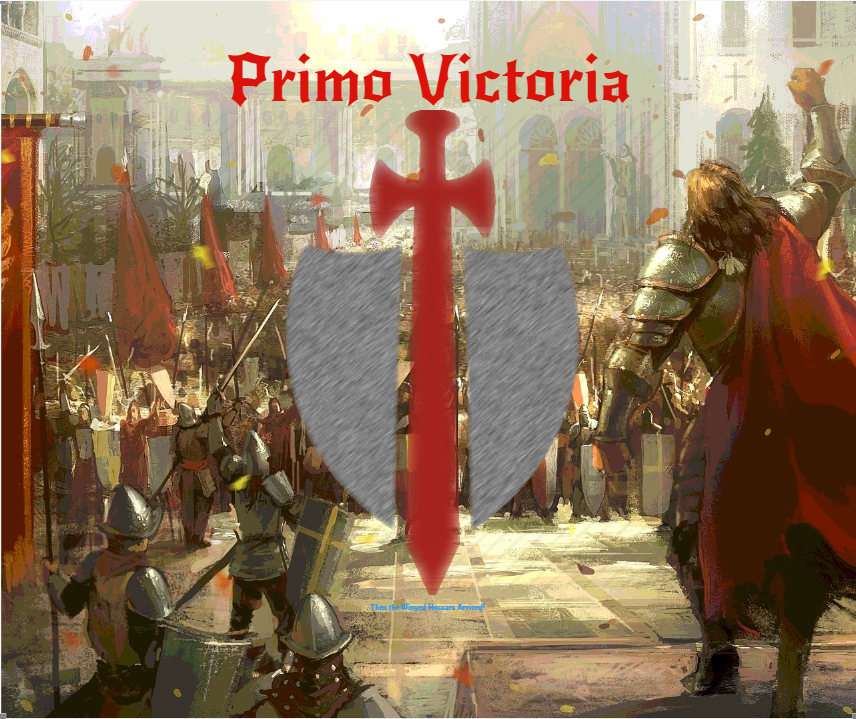
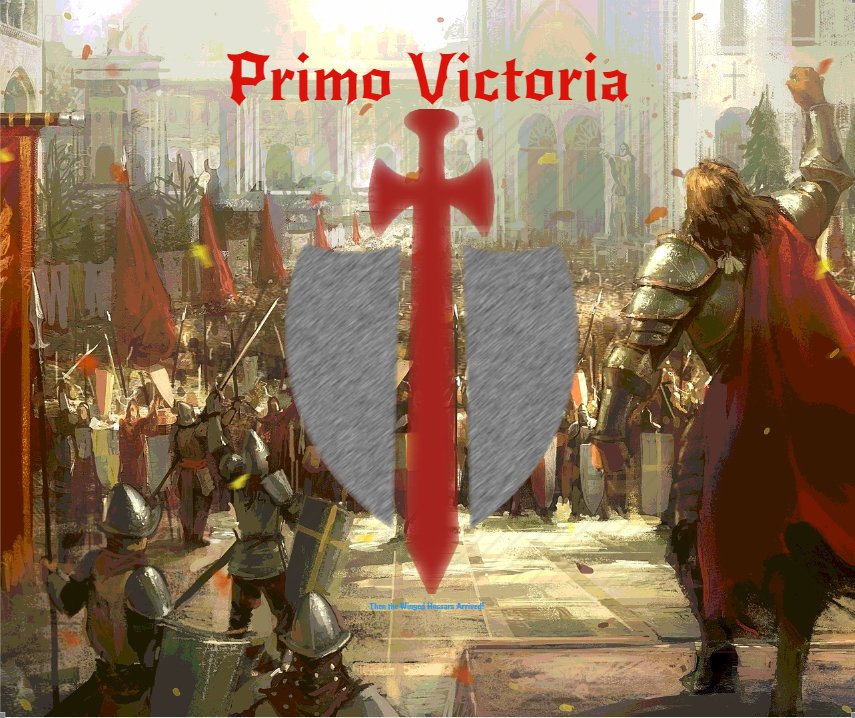
Bug Fixes
Changed background orientation; increased screen size, units can't walk off screen

diff --git a/unitManager.cpp b/unitManager.cpp
@@ -147,55 +147,71 @@ void UnitManager::selectionDown(){
 	}
 }
 bool UnitManager::unitUp(TileManager* tileManager){
-	if(!(tileManager->getTile(selectedTile.x, selectedTile.y-1)->isOccupied())){
-		if(currentSelection->moveUp()){
-			tileManager->getTile(currentSelection->getTileX(), currentSelection->getTileY()+1)->leave();
-			tileManager->getTile(currentSelection->getTileX(), currentSelection->getTileY())->occupy(currentSelection);
+	if (currentSelection->getTileY() > 0) {
+		if(!(tileManager->getTile(selectedTile.x, selectedTile.y-1)->isOccupied())){
+			if(currentSelection->moveUp()){
+				tileManager->getTile(currentSelection->getTileX(), currentSelection->getTileY()+1)->leave();
+				tileManager->getTile(currentSelection->getTileX(), currentSelection->getTileY())->occupy(currentSelection);
+				return true;
+			}
+		}
+		else if(tileManager->getTile(selectedTile.x, selectedTile.y-1)->isOccupied()){
 			return true;
 		}
 	}
-	else if(tileManager->getTile(selectedTile.x, selectedTile.y-1)->isOccupied()){
+	else if (currentSelection->getTileY() == 0)
 		return true;
-	}
 	return false;
 }
 bool UnitManager::unitDown(TileManager* tileManager){
-	if(!(tileManager->getTile(selectedTile.x, selectedTile.y+1)->isOccupied())){
-		if(currentSelection->moveDown()){
-			tileManager->getTile(currentSelection->getTileX(), currentSelection->getTileY()-1)->leave();
-			tileManager->getTile(currentSelection->getTileX(), currentSelection->getTileY())->occupy(currentSelection);
+	if (currentSelection->getTileY() < tileManager->getHeight()-1) {
+		if(!(tileManager->getTile(selectedTile.x, selectedTile.y+1)->isOccupied())){
+			if(currentSelection->moveDown()){
+				tileManager->getTile(currentSelection->getTileX(), currentSelection->getTileY()-1)->leave();
+				tileManager->getTile(currentSelection->getTileX(), currentSelection->getTileY())->occupy(currentSelection);
+				return true;
+			}
+		}
+		else if(tileManager->getTile(selectedTile.x, selectedTile.y+1)->isOccupied()){
 			return true;
 		}
 	}
-		else if(tileManager->getTile(selectedTile.x, selectedTile.y+1)->isOccupied()){
+	else if (currentSelection->getTileY() == tileManager->getHeight()-1)
 		return true;
-	}
 	return false;
 }
 bool UnitManager::unitLeft(TileManager* tileManager){
-	if(!(tileManager->getTile(selectedTile.x-1, selectedTile.y)->isOccupied())){
-		if(currentSelection->moveLeft()){
-			tileManager->getTile(currentSelection->getTileX()+1, currentSelection->getTileY())->leave();
-			tileManager->getTile(currentSelection->getTileX(), currentSelection->getTileY())->occupy(currentSelection);
+	if (currentSelection->getTileX() > 0) {
+		if(!(tileManager->getTile(selectedTile.x-1, selectedTile.y)->isOccupied())){
+			if(currentSelection->moveLeft()){
+				tileManager->getTile(currentSelection->getTileX()+1, currentSelection->getTileY())->leave();
+				tileManager->getTile(currentSelection->getTileX(), currentSelection->getTileY())->occupy(currentSelection);
+				return true;
+			}
+		}
+		else if(tileManager->getTile(selectedTile.x-1, selectedTile.y)->isOccupied()){
 			return true;
 		}
 	}
-		else if(tileManager->getTile(selectedTile.x-1, selectedTile.y)->isOccupied()){
+	else if (currentSelection->getTileX() == 0)
 		return true;
-	}
 	return false;
 }
 bool UnitManager::unitRight(TileManager* tileManager){
-	if(!(tileManager->getTile(selectedTile.x+1, selectedTile.y)->isOccupied())){
-		if(currentSelection->moveRight()){
-			tileManager->getTile(currentSelection->getTileX()-1, currentSelection->getTileY())->leave();
-			tileManager->getTile(currentSelection->getTileX(), currentSelection->getTileY())->occupy(currentSelection);
+	if (currentSelection->getTileX() < tileManager->getWidth()-1) {
+		if(!(tileManager->getTile(selectedTile.x+1, selectedTile.y)->isOccupied())){
+			if(currentSelection->moveRight()){
+				tileManager->getTile(currentSelection->getTileX()-1, currentSelection->getTileY())->leave();
+				tileManager->getTile(currentSelection->getTileX(), currentSelection->getTileY())->occupy(currentSelection);
+				return true;
+			}
+		}
+		else if(tileManager->getTile(selectedTile.x+1, selectedTile.y)->isOccupied()){
 			return true;
 		}
 	}
-		else if(tileManager->getTile(selectedTile.x+1, selectedTile.y)->isOccupied()){
+	else if (currentSelection->getTileX() == tileManager->getWidth()-1)
 		return true;
-	}
 	return false;
 } 
 #pragma endregion

diff --git a/primoVictoria.cpp b/primoVictoria.cpp
@@ -41,9 +41,12 @@ void PrimoVictoria::initialize(HWND hwnd)
 		throw(GameError(gameErrorNS::FATAL_ERROR, "BackgroundTexture init fail"));
 	if (!background.initialize(graphics, 0,0,0,&backgroundTexture))
 		throw(GameError(gameErrorNS::FATAL_ERROR, "BackgroundImg init fail"));
-	background.setScale(0.8f);
+	background.setScale(BACKGROUND_IMAGE_SCALE);
+	background.setX(140.f);
 
-	if (!tileManager.initialize(graphics, 7,5, this))
+	graphics->setBackColor(SETCOLOR_ARGB(0xFF, 0xAF, 0x3F, 0x2F));
+
+	if (!tileManager.initialize(graphics, 12,7, this))
 		throw(GameError(gameErrorNS::FATAL_ERROR, "TileManager initialization failure"));
 	tileManager.setTileVisibility(true);
 
@@ -230,7 +233,8 @@ void PrimoVictoria::render()
 
 
 	if (currentMenu == 0){
-		tileManager.draw(7,5);
+		tileManager.draw();
+		unitManager.draw();
 	}
 	else if(currentMenu == 1){
 		mainMenu->displayMenu();
@@ -239,7 +243,7 @@ void PrimoVictoria::render()
 		optionsMenu -> displayMenu();
 	}
 	output->print(ss.str(), 0,0);
-	unitManager.draw();
+
 	graphics->spriteEnd();                  // end drawing sprites
 }
 
@@ -267,22 +271,22 @@ void PrimoVictoria::resetAll()
 	return;
 }
 
-#pragma region Newell
+#pragma region Newell/Higgs
 void PrimoVictoria::spawnUnit(int unitType){
-	for (int i = 0; i < 5; i++) {
-		if(!(tileManager.getTile(0, 2 + (std::pow((-1),i)) * ((i+1)/2))->isOccupied())){
+	for (int i = 0; i < tileManager.getHeight(); i++) {
+		if(!(tileManager.getTile(0, 3 + (std::pow((-1),i)) * ((i+1)/2))->isOccupied())){
 			switch(unitType){
 			case 0:
-				unitManager.spawnInfantry(0, 2 + (std::pow((-1),i)) * ((i+1)/2));
+				unitManager.spawnInfantry(0, 3 + (std::pow((-1),i)) * ((i+1)/2));
 				break;
 			case 1:
-				unitManager.spawnInfantry(0, 2 + (std::pow((-1),i)) * ((i+1)/2));
+				unitManager.spawnInfantry(0, 3 + (std::pow((-1),i)) * ((i+1)/2));
 				break;
 			case 2:
-				unitManager.spawnInfantry(0, 2 + (std::pow((-1),i)) * ((i+1)/2));
+				unitManager.spawnInfantry(0, 3 + (std::pow((-1),i)) * ((i+1)/2));
 				break;
 			}
-			tileManager.getTile(0, 2 + (std::pow((-1),i)) * ((i+1)/2))->occupy(unitManager.getCurrentSelection());
+			tileManager.getTile(0, 3 + (std::pow((-1),i)) * ((i+1)/2))->occupy(unitManager.getCurrentSelection());
 			break;
 		}
 	}

diff --git a/TileManager.cpp b/TileManager.cpp
@@ -74,24 +74,24 @@ bool TileManager::initialize(Graphics* graphics, int x, int y, Game* game) {
 
 void TileManager::setTileVisibility(bool isVisible) {
 	if (isVisible == true) {
-		for (int i = 0; i < 7; i++) {
-			for (int j = 0; j < 5; j++) {
+		for (int i = 0; i < width; i++) {
+			for (int j = 0; j < height; j++) {
 				tiles[i][j].setVisible();
 			}
 		}
 	}
 	else {
-		for (int i = 0; i < 7; i++) {
-			for (int j = 0; j < 5; j++) {
+		for (int i = 0; i < width; i++) {
+			for (int j = 0; j < height; j++) {
 				tiles[i][j].setInvisible();
 			}
 		}
 	}
 }
 
-void TileManager::draw(int x, int y) {
-	for (int i = 0; i < x; i++) {
-		for (int j = 0; j < y; j++) {
+void TileManager::draw() {
+	for (int i = 0; i < width; i++) {
+		for (int j = 0; j < height; j++) {
 			tiles[i][j].draw();
 		}
 	}

diff --git a/constants.h b/constants.h
@@ -77,8 +77,8 @@ inline void safeOnResetDevice(T& ptr)
 const char CLASS_NAME[] = "Collisions";
 const char GAME_TITLE[] = "Primo Victoria";
 const bool FULLSCREEN = false;              // windowed or fullscreen
-const UINT GAME_WIDTH =  640;               // width of game in pixels
-const UINT GAME_HEIGHT = 480;               // height of game in pixels
+const UINT GAME_WIDTH =  1152;               // width of game in pixels
+const UINT GAME_HEIGHT = 674;               // height of game in pixels
 
 // game
 const double PI = 3.14159265;
@@ -104,6 +104,7 @@ const char BACKGROUND_IMAGE[] = "pictures\\background.PNG";
 const int TERRAIN_WIDTH = 96;
 const int TERRAIN_HEIGHT = 96;
 const int TERRAIN_SCALE = 1;
+const float BACKGROUND_IMAGE_SCALE = 1.0f;
 
 #pragma endregion
 // key mappings

diff --git a/TileManager.h b/TileManager.h
@@ -19,7 +19,7 @@ public:
 	Tile* getTile(int x, int y) {return &tiles[x][y]; };
 
 	void setTileVisibility(bool);
-	void draw(int x, int y); 
+	void draw(); 
 	int getWidth() { return width; };
 	int getHeight() { return height; };
 
